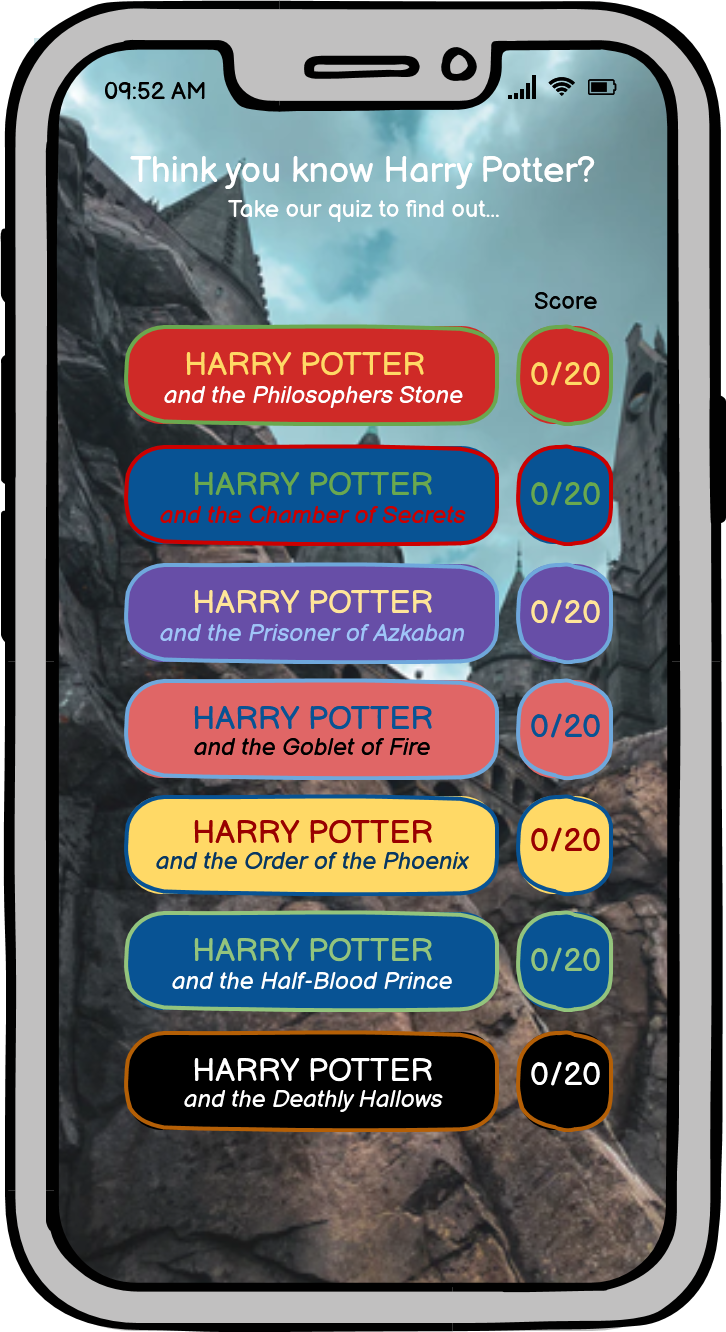
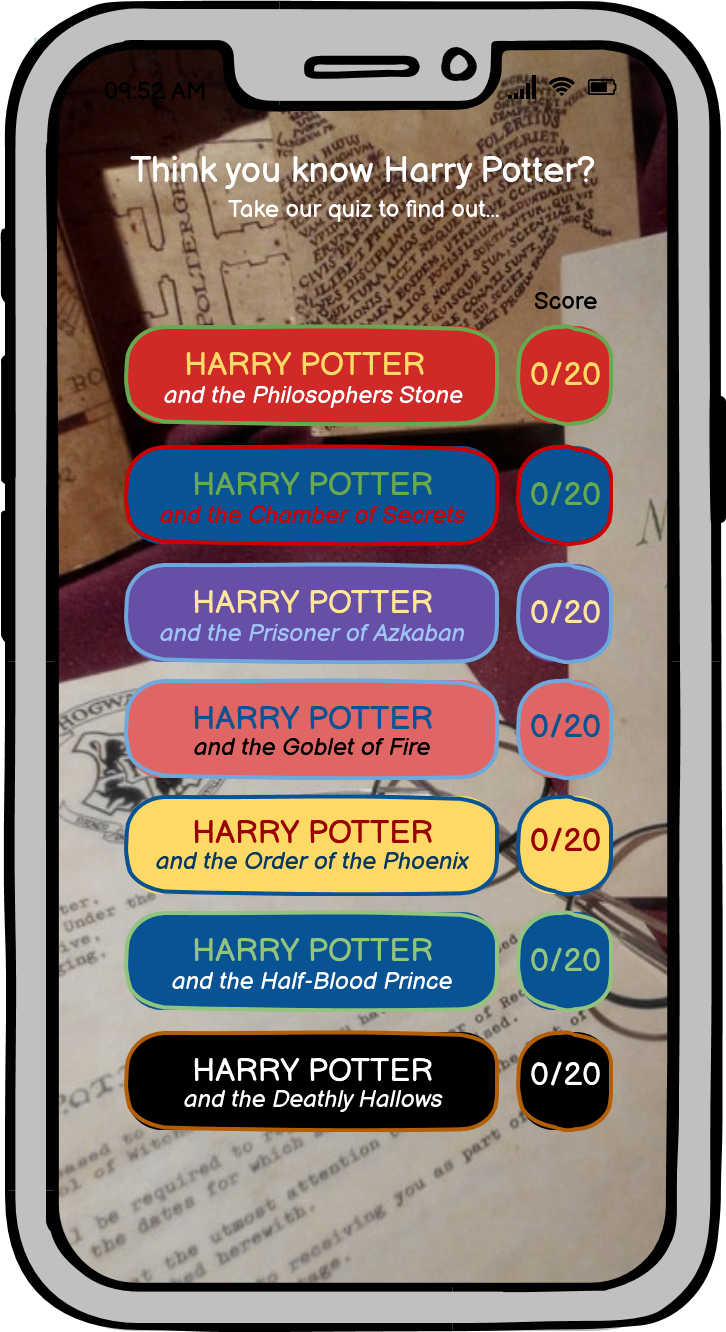
doc: Update readme and wireframe images

diff --git a/README.md b/README.md
@@ -36,18 +36,18 @@ This is my submission for Code Institute's (5P) Portfolio Project Two. It will b
 
 # Skeleton
 
-The wireframes for the Harry Potter Quiz website were made with the Balsamiq Desktop Applictaion, they can be found by viewing the images below. As the layout of the quiz will change between device screen sizes, I have made a wireframe for all devices; with PC being in landscape, and tablet and phones being in portrait orientation. 
+The wireframes for the Harry Potter Quiz website were made with the Balsamiq Desktop Applictaion, they can be found by viewing the images below. As the layout of the quiz will change between device screen sizes, I have made a wireframe for all devices; with PC being in landscape, and tablet and phones being in portrait orientation. As I have chosen an image that is square, it is able to act as the background for all screen sizes, inkeeping with device compatibility and responsiveness.
 <br><br>
-The wireframe below is for the landing page on PC but also for other devices when in landscape orientation.
+The wireframe below is for the landing page on PC.
 <img src="assets/images/readme-images/pc-main.png" alt="Wireframe for landing page on PC" width="100%"><br><br>
-The wireframe below is for the quiz page on PC but also for other devices when in landscape orientation.
-<img src="assets/images/readme-images/pc-question.png" alt="Wireframe for quiz page on PC" width="100%"><br><br>
-The wireframes below are for tablets when in portrait orientation for the landing and quiz pages.
+The wireframe below is for the quiz page on PC.
+<img src="assets/images/readme-images/pc-quiz.png" alt="Wireframe for quiz page on PC" width="100%"><br><br>
+The wireframes below are for tablets.
 <img src="assets/images/readme-images/tablet-main.png" alt="Wireframe for landing page on tablet" width="45%"> 
-<img src="assets/images/readme-images/tablet-question.png" alt="Wireframe for quiz page on tablet" width="45%"><br><br>
-The wireframes below are for phones when in portrait orientation for the landing and quiz pages.
+<img src="assets/images/readme-images/tablet-quiz.png" alt="Wireframe for quiz page on tablet" width="45%"><br><br>
+The wireframes below are for smaller devices.
 <img src="assets/images/readme-images/phone-main.png" alt="Wireframe for landing page on phones" width="30%"> 
-<img src="assets/images/readme-images/phone-question.png" alt="Wireframe for quiz page on phones" width="30%">
+<img src="assets/images/readme-images/phone-quiz.png" alt="Wireframe for quiz page on phones" width="30%">
 <br><br>
 
 # Surface
@@ -61,18 +61,12 @@ The main colours used on the website are the links for the specific quizes (orga
 ## Content
 
 ## Images
-There are only two images used throughout the website - these are the background images used for different screen sizes - one for a more landscape orientation (for all devises) and one further image for portrait orientations. One images on the website came from <a href="https://unsplash.com/" target="_blank">Unsplash</a>:
+There is only one image used throughout the website - which is the background image used for different screen sizes - this image came from <a href="https://unsplash.com/" target="_blank">Unsplash</a>:
 <ul>
     <li>
-        <a href="https://unsplash.com/photos/cADpgwU6Fm4" target="_blank">Jules Marvin Eguilos</a> - background image for portrait orientation on small mobile devices.
+        <a href="https://unsplash.com/photos/WE7YfTGpXlg" target="_blank">Rae Tian</a> - background image for portrait and landscape orientation on all devices.
     </li>
 </ul>    
-And the other image on the website came from <a href="https://www.pexels.com/" target="_blank">Pexels</a>:
-<ul>
-    <li>
-        <a href="https://www.pexels.com/photo/train-with-smoke-507410/" target="_blank">Gabriela Palai</a> - background image for landscape orientation on all devices.
-    </li>
-</ul>
 
 ## Acknowledgements
 
